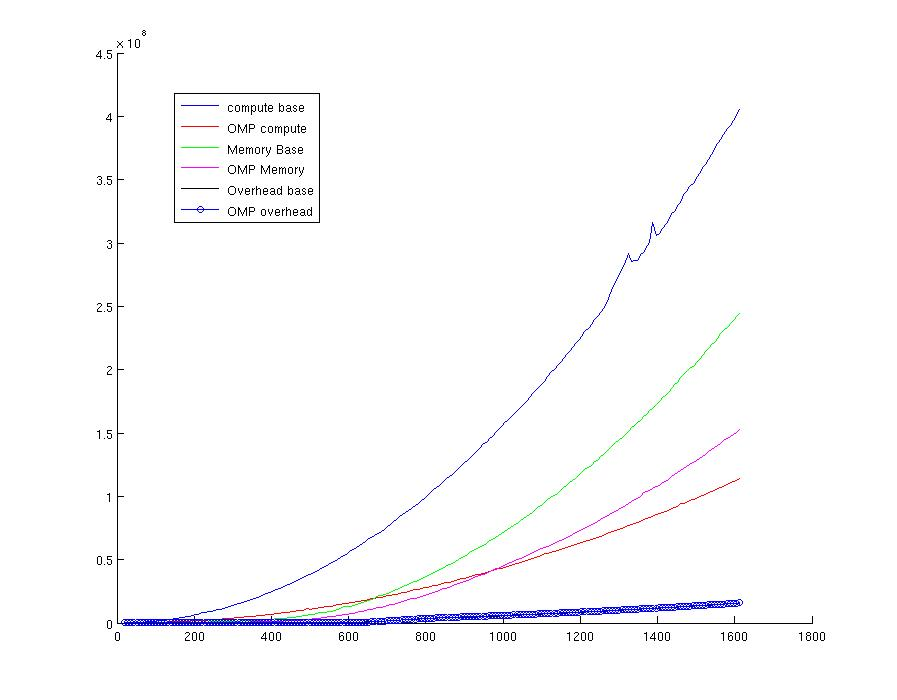
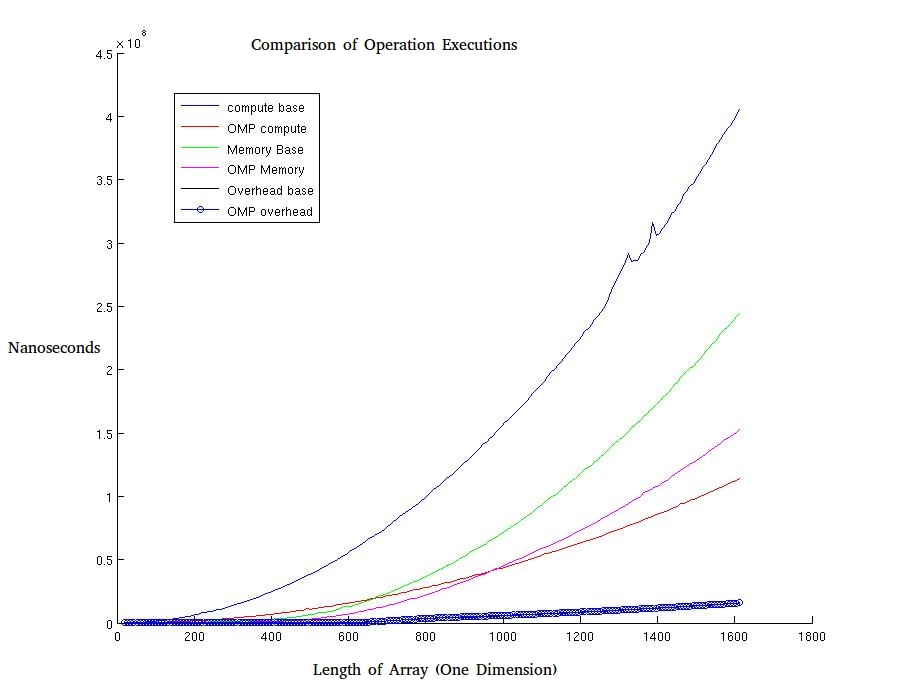
bit more to part 2

diff --git a/final/Burke_John_Lab6.tex b/final/Burke_John_Lab6.tex
@@ -5,21 +5,35 @@
 \documentclass[12pt,8.5in,11in]{article}
 
 \usepackage{graphicx}
+\usepackage{wrapfig}
 \usepackage[top=1.0in, bottom=1.0in, left=1.25in, right=1.25in]{geometry}
 
 \begin{document}
 	\maketitle
 	
-\section{Part One}
-
-\begin{figure}[t]
-  \centering
-  \includegraphics[width=\linewidth]{part_1.png}
-  \caption{Sample output from Open MP "Hello World"}
-  \label{fig:Hello World Open MP}
-\end{figure}
+\section{Part One -- Hello World}
 
 \paragraph{}
-Above is a picture of sample output from the edited program.  The code is attached in the compressed directory.
+Quickly running test\_omp.c will show "Hello World" is always printed in order so that it makes sense.  This was done by using \texttt{\#pragma omp parallel for ordered} to control the loop.
+
+\section{Part Two -- Parallel For}
+
+\paragraph{}
+For operations that are computationally intensive or bound by memory access, it can be clearly seen that once a certain amount of work has to be done there is obvious advantage to making use of Open MP.  However, when dealing with a situation where the overhead of Open MP is the bounding factor, it performs similarly to the baseline serial code.
+
+\begin{figure}[h!]
+	\centering
+	\includegraphics[scale=0.3]{part2}
+\end{figure}
+
+\section{Part Three -- Matrix Multiply}
+
+	\subsection{Part A}
+	
+	\subsection{Part B}
+	
+	\subsection{Part C}
+	
+\section{Part Four -- Open MP with Real Programs}	
 	
 \end{document}	
